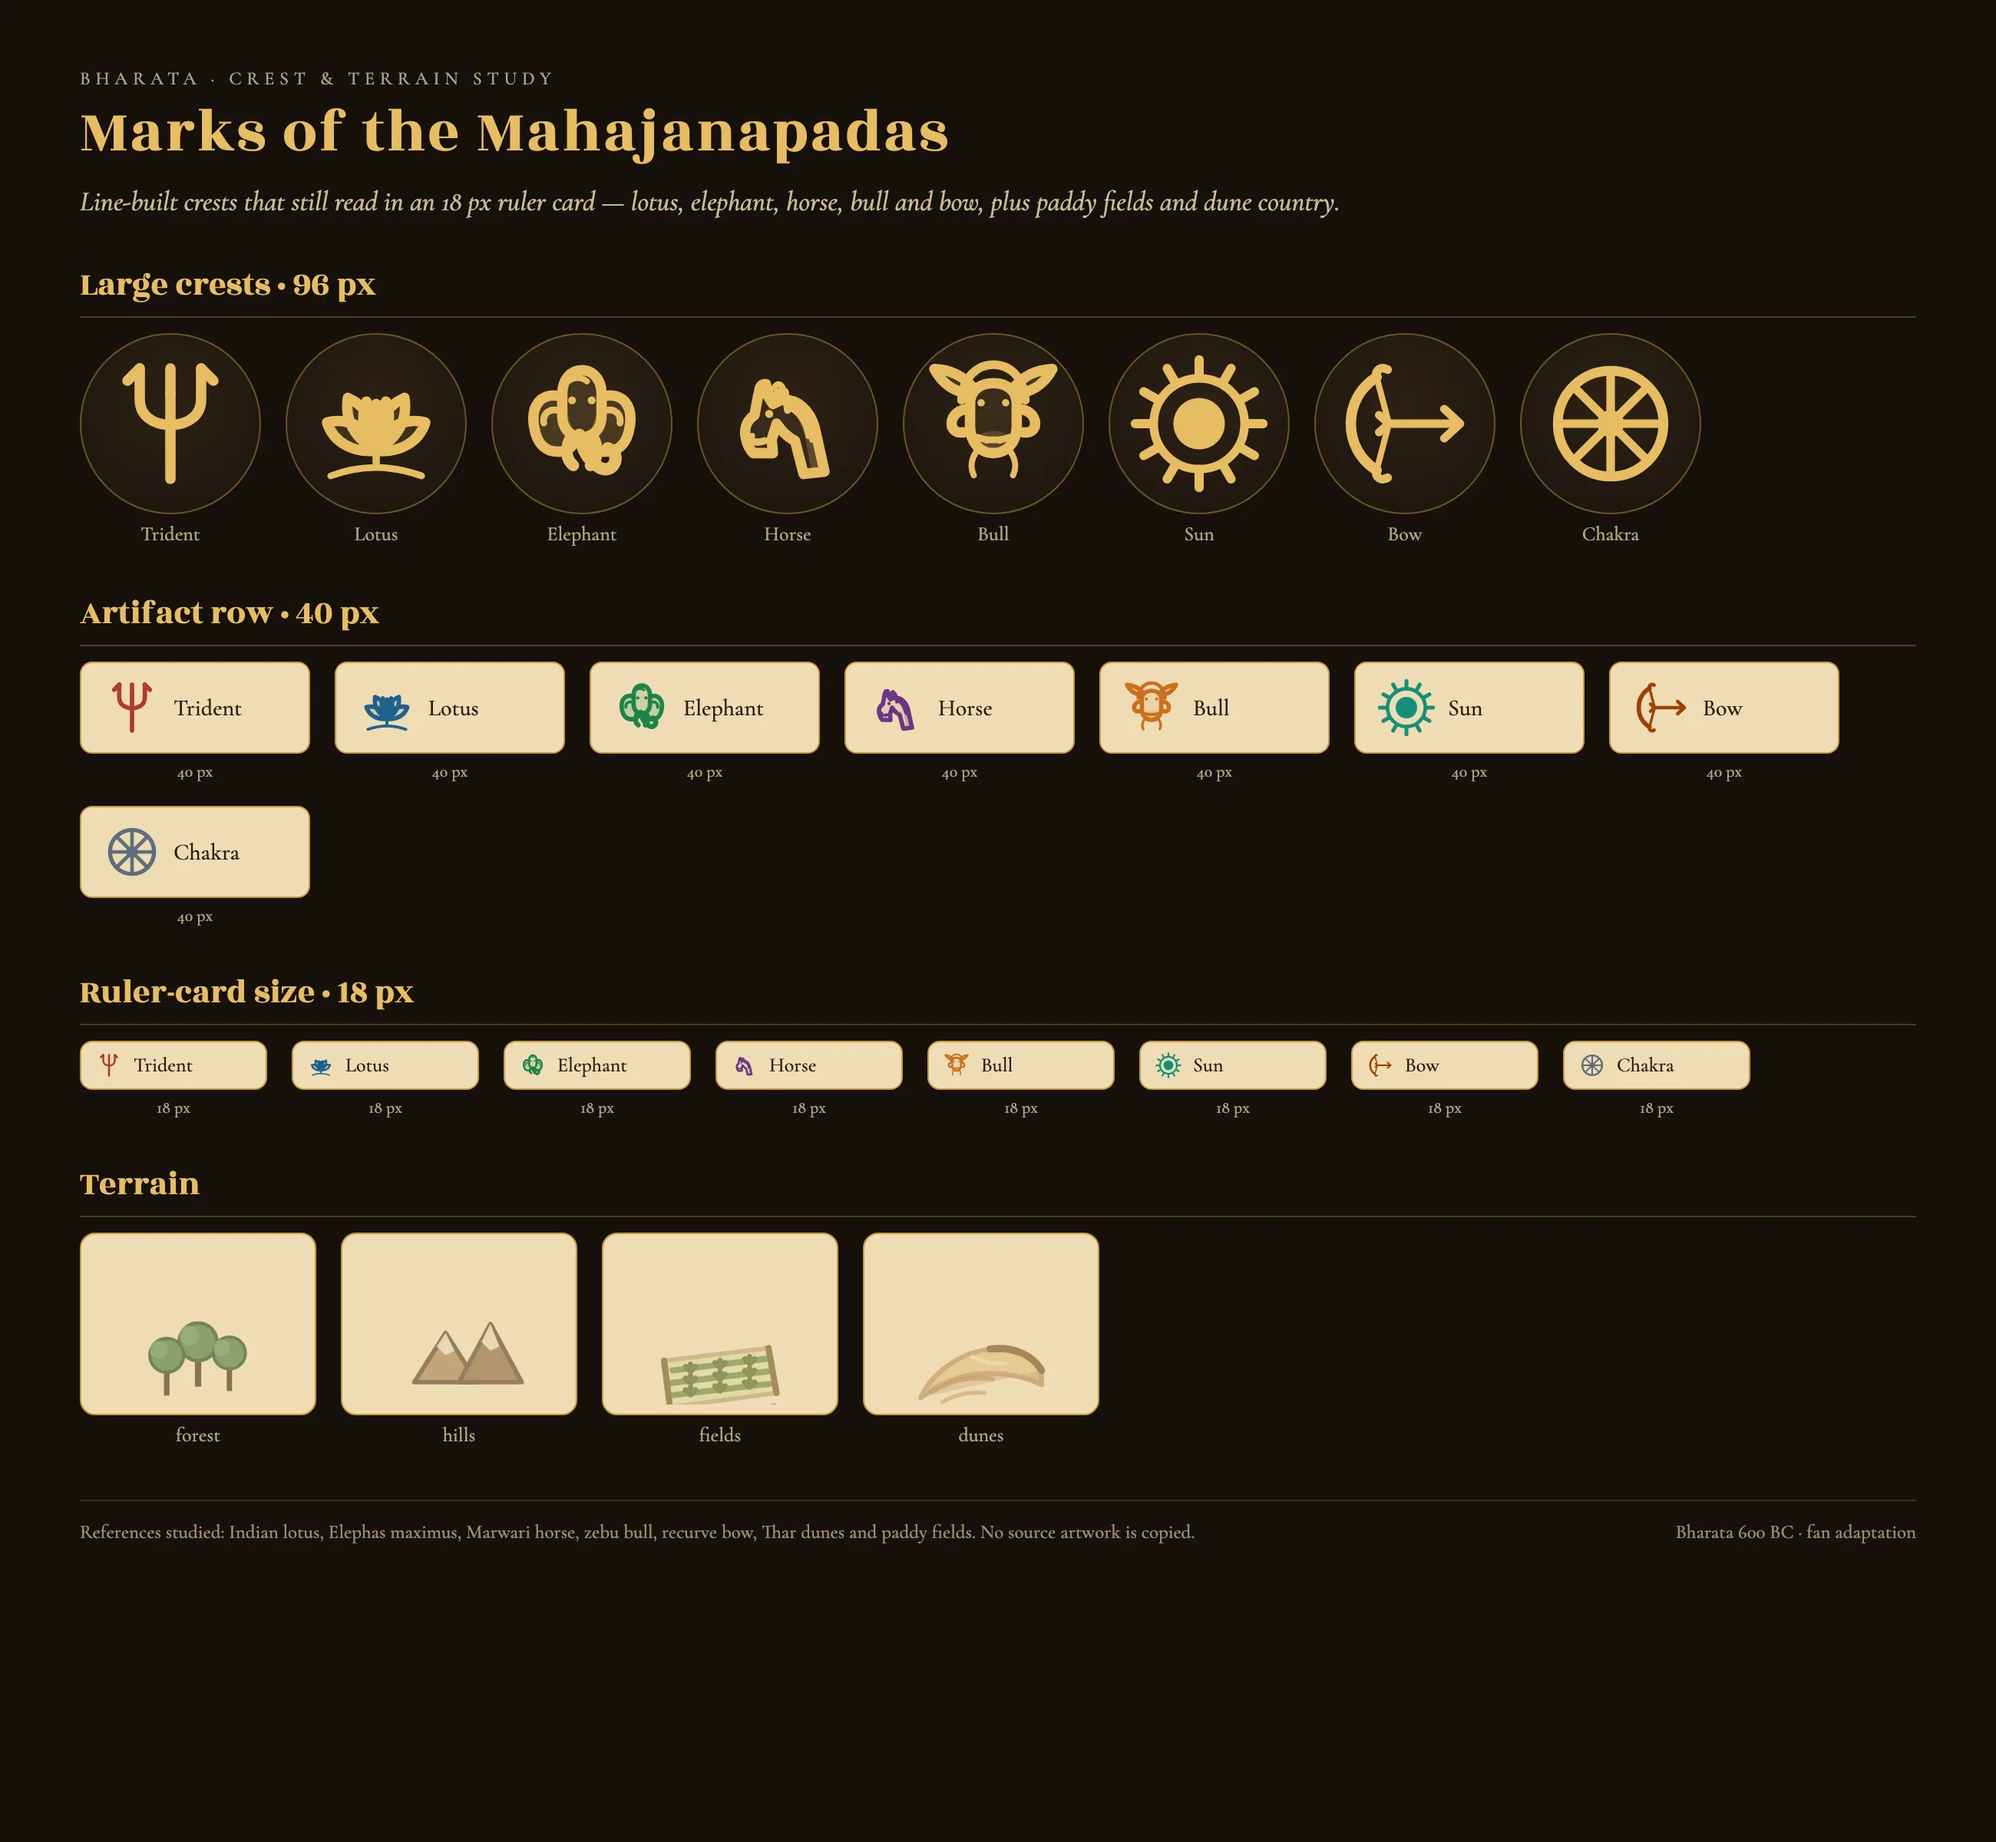
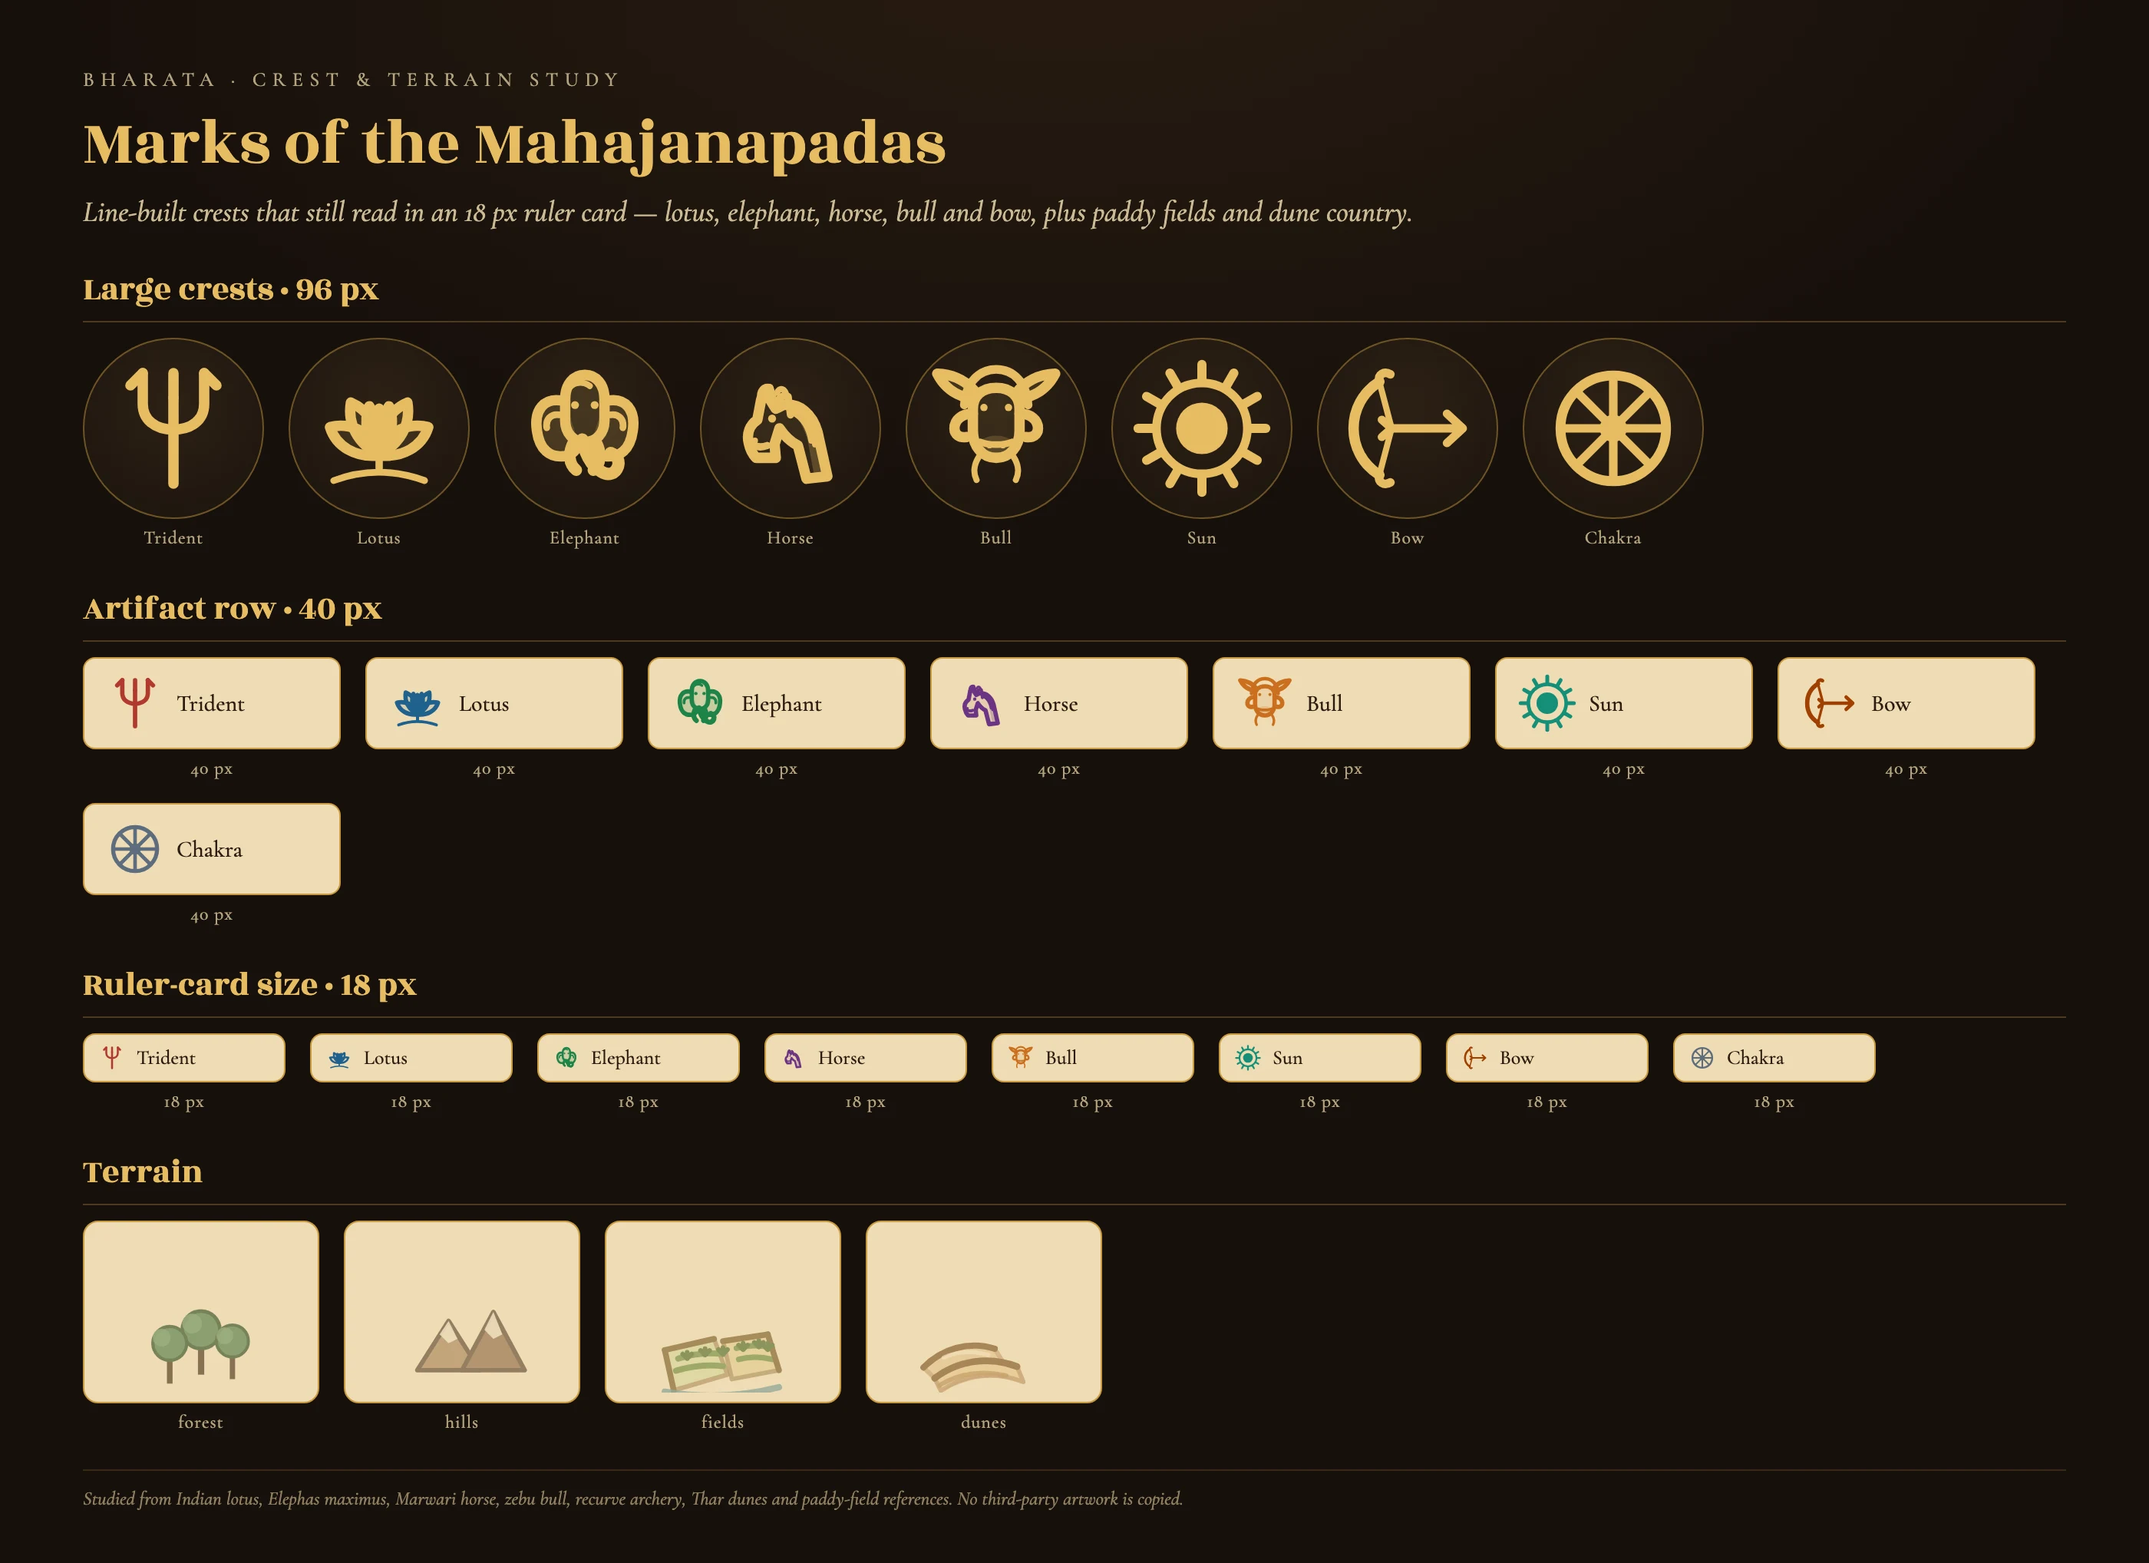
fix(art): regenerate crest study with corrected cwebp output

Changed region(s): [[0.0312, 0.0309, 0.9658, 0.8973], [0.9035, 0.8045, 0.9346, 0.8355], [0.8412, 0.8045, 0.8723, 0.8355]]

diff --git a/scripts/crest-study.ts b/scripts/crest-study.ts
@@ -91,7 +91,7 @@ async function main() {
   const png = path.join(TMP, 'study.png')
   await page.screenshot({ path: png, fullPage: true })
   await browser.close()
-  execFileSync('cwebp', ['-quiet', '-q', '88', png, OUT])
+  execFileSync('cwebp', ['-quiet', '-q', '88', png, '-o', OUT])
   fs.rmSync(TMP, { recursive: true, force: true })
   console.log(`✓ ${path.relative(process.cwd(), OUT)} (${Math.round(fs.statSync(OUT).size / 1024)} kB)`)
 }
